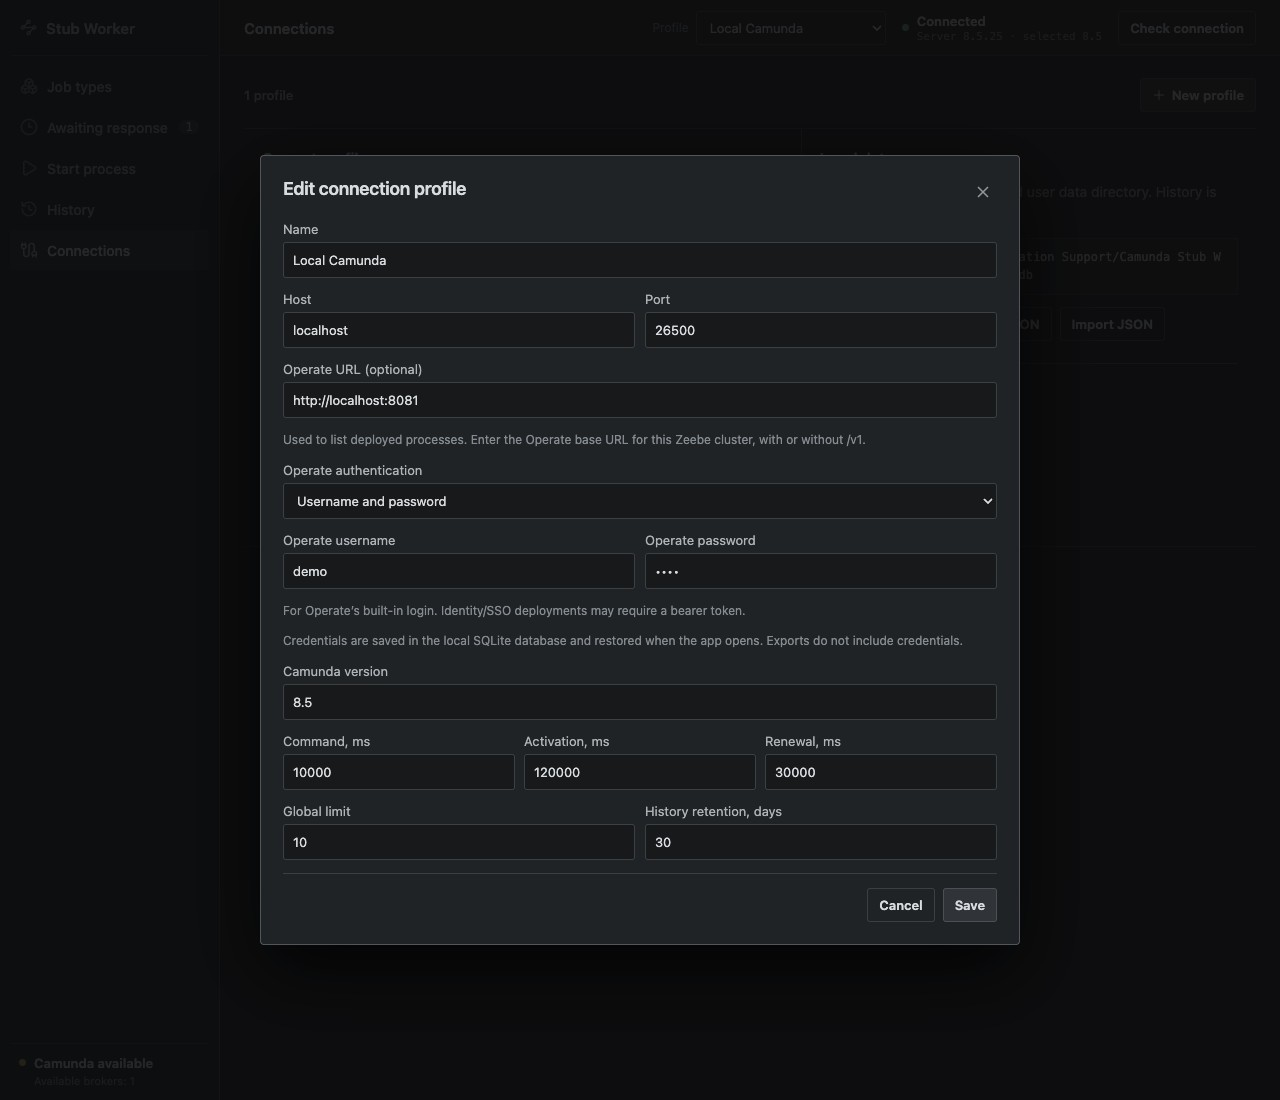
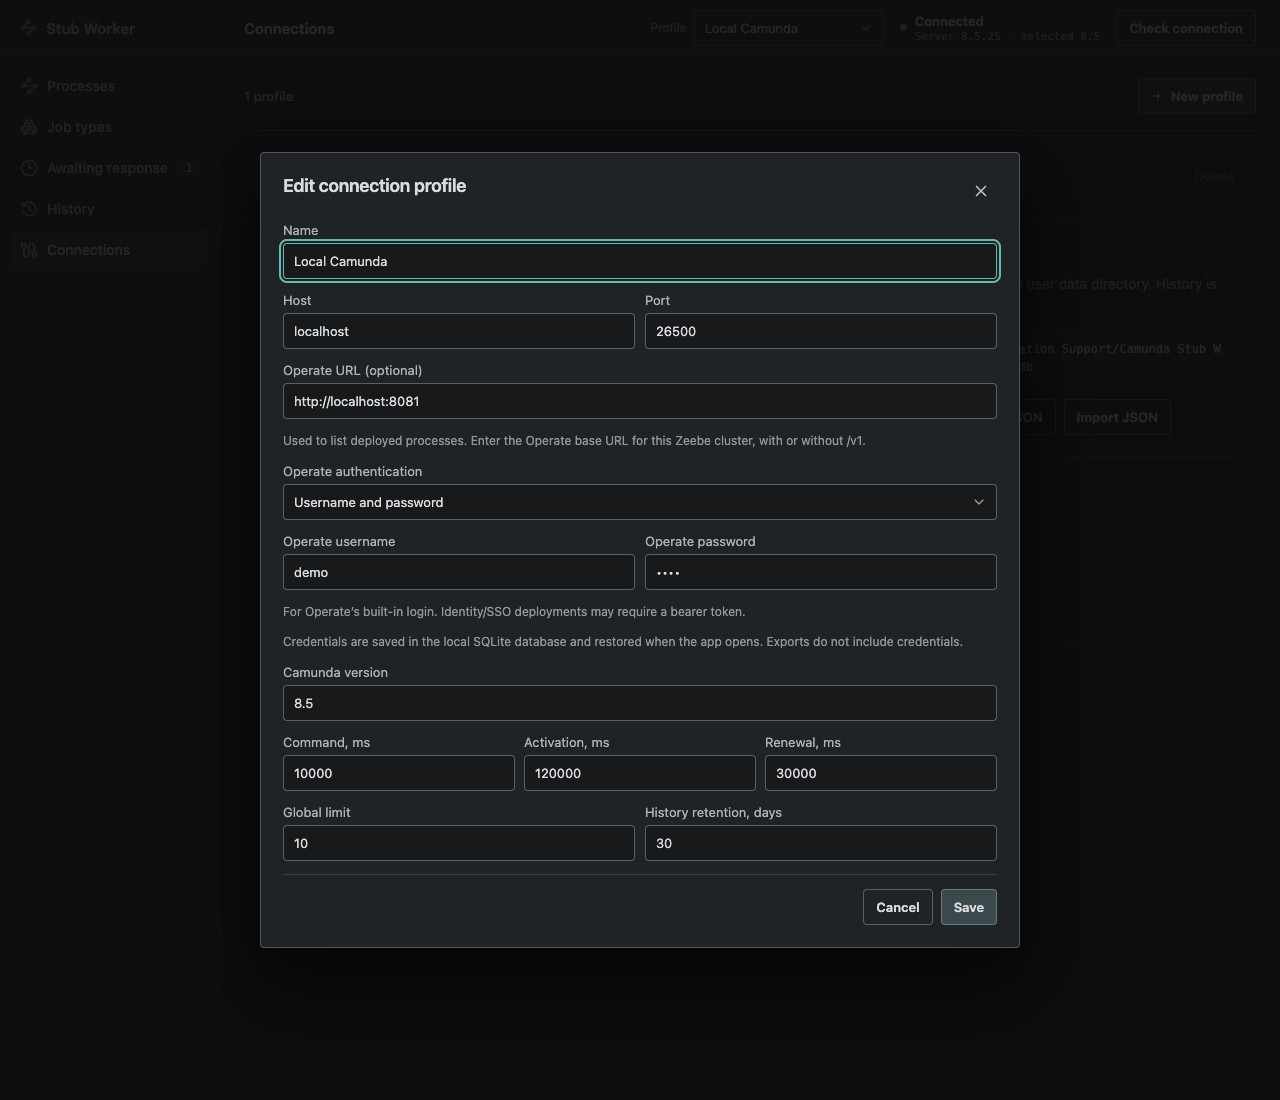
Refresh documentation and screenshots for v0.6.0

diff --git a/site/index.html b/site/index.html
@@ -24,20 +24,20 @@
         </div>
         <p class="platforms">macOS · Windows · Linux</p>
       </section>
-      <img class="screenshot" src="assets/job-types.jpg" width="1280" height="820" alt="Job types with automatic and manual workers and success, business-error, and technical-failure scenarios">
+      <img class="screenshot" src="assets/processes.jpg" width="1280" height="900" alt="Processes screen with shared responses for payment and inventory worker tasks">
       <div class="features">
         <p><strong>Choose the outcome.</strong> Return success, throw a business error, or simulate a technical failure.</p>
         <p><strong>Control the response.</strong> Run automatically or inspect and respond to jobs manually.</p>
-        <p><strong>Start from the app.</strong> Pick a deployed process from Operate or enter its ID, then supply a version and JSON variables.</p>
+        <p><strong>Start from the app.</strong> Pick a deployed process and version from Operate, configure its worker responses, then supply JSON variables.</p>
       </div>
       <section class="feature-section" aria-labelledby="start-title">
         <h2 id="start-title">From deployment to process instance.</h2>
-        <p>Browse deployed processes through the Operate API, refresh after deploying a new model, or enter a BPMN process ID manually. Choose a specific version or use the latest, add JSON variables, and get the new instance key.</p>
-        <figure><img class="screenshot" src="assets/start-process.jpg" width="1280" height="820" loading="lazy" alt="Start process screen showing Order fulfillment, input variables, and the created instance key"><figcaption>Start a process and see the instance confirmed by Camunda.</figcaption></figure>
+        <p>Browse deployed processes through the Operate API and refresh after deploying a new model. Choose a version, configure shared responses on its worker tasks, then open Start process to add JSON variables and get the new instance key. In-app process start requires Operate; without it, configure Job types and start instances with an external tool.</p>
+        <figure><img class="screenshot" src="assets/start-process.jpg" width="1280" height="820" loading="lazy" alt="Start process dialog showing Order fulfillment, input variables, and the created instance key"><figcaption>Start a process and see the instance confirmed by Camunda.</figcaption></figure>
       </section>
       <section class="feature-section" aria-labelledby="manual-title">
         <h2 id="manual-title">Inspect a job before you respond.</h2>
-        <p>Review input variables, choose a response scenario, and edit the JSON before sending it. Switch to automatic mode for repeatable test runs, then review response attempts in History.</p>
+        <p>Review input variables and choose a saved response, or select Custom to edit response JSON before sending it. Switch to automatic mode for repeatable test runs, then review response attempts in History.</p>
         <figure><img class="screenshot" src="assets/manual-response.jpg" width="1280" height="820" loading="lazy" alt="Awaiting response screen with order variables and an editable inventory response"><figcaption>Manual responses let you control the next step in your process.</figcaption></figure>
       </section>
       <section class="feature-section" aria-labelledby="connections-title">
@@ -46,8 +46,8 @@
         <figure><img class="screenshot" src="assets/connections.jpg" width="1280" height="1100" loading="lazy" alt="Connection editor with local Zeebe and Operate addresses and masked password authentication"><figcaption>Local defaults: Zeebe on port 26500, Operate on port 8081, and demo / demo for Operate login.</figcaption></figure>
         <p class="note">Configuration and history stay on your computer. Saved passwords and tokens are stored in plaintext in the local SQLite database and omitted from profile exports.</p>
       </section>
-      <p class="note">Screenshots show the current app UI with illustrative sample data.</p>
-      <p class="compatibility">For local Zeebe connections; verified with 8.5.25. Operate v1 is optional and must connect to the same cluster. Deploy BPMN models with an external tool. Builds are unsigned. See <a href="https://github.com/mishankov/camunda-stub-worker#install">installation and requirements</a>.</p>
+      <p class="note">Screenshots show the current frontend with isolated sample data and simulated backend responses.</p>
+      <p class="compatibility">For local Zeebe connections; verified with 8.5.25. Operate v1 is required for the Processes screen and must connect to the same cluster; standalone workers do not require it. Deploy BPMN models with an external tool. Builds are unsigned. See <a href="https://github.com/mishankov/camunda-stub-worker#install">installation and requirements</a>.</p>
     </main>
     <footer class="wrap">Camunda Stub Worker</footer>
   </body>

diff --git a/README.md b/README.md
@@ -1,17 +1,17 @@
 # Camunda Stub Worker
 
-Camunda Stub Worker is a desktop app for testing Camunda 8 processes without building every external worker first. Connect to local Zeebe, start a deployed process, and choose how its jobs should respond. Connect Operate to pick deployed processes from a dropdown.
+Camunda Stub Worker is a desktop app for testing Camunda 8 processes without building every external worker first. Connect to local Zeebe, start a deployed process, and choose how its jobs should respond. Connect Operate to select deployed processes, configure their worker tasks, and start instances.
 
 Use it to explore happy paths, business errors, and technical failures while developing or demonstrating a process. No code is required to create or switch responses.
 
 [Download the latest release](https://github.com/mishankov/camunda-stub-worker/releases/latest)
 
-![Job types and their configured response scenarios](docs/images/job-types.jpg)
+![Process worker tasks and their shared response scenarios](docs/images/processes.jpg)
 
 ## What you can do
 
-- **Start deployed processes** with a BPMN process ID, optional version, and JSON variables.
-- **Browse deployed processes** through the Operate API, with refresh and manual ID entry.
+- **Start deployed processes** with a version and JSON variables.
+- **Browse deployed processes** through the Operate API, with refresh and version selection.
 - **Stub multiple job types** from one desktop app.
 - **Create reusable responses** for success, BPMN business errors, and technical failures.
 - **Run automatically** with a selected response and optional delay.
@@ -36,13 +36,15 @@ Responses and worker settings are shared by job type within a connection. Editin
 
 The task list comes from the selected BPMN definition in Operate, including tasks in embedded subprocesses. Called processes are configured separately. Expression-based job types are shown but must be configured by their resolved value in **Job types**. Pending jobs are manual jobs activated by this app, filtered to the selected process definition version.
 
+![Job types and their configured response scenarios](docs/images/job-types.jpg)
+
 ### Automatic mode
 
 Automatic mode sends the active scenario as soon as a job is activated, after any delay configured on the scenario. It is useful for repeatable end-to-end flows, demos, and tests where the same response should be returned every time.
 
 ### Manual mode
 
-Manual mode places activated jobs under **Awaiting response**. You can inspect the input, select a scenario, edit its local copy, and send the response when ready. The scenario's automatic delay is not applied in manual mode.
+Manual mode places activated jobs under **Awaiting response**. You can inspect the input, select a saved scenario, and send the response when ready. Select **Custom** to edit response JSON for this job; JSON from a selected saved scenario is read-only. The scenario's automatic delay is not applied in manual mode.
 
 ![Reviewing and preparing a response for a manually activated job](docs/images/manual-response.jpg)
 
@@ -83,18 +85,18 @@ xattr -dr com.apple.quarantine "/Applications/Camunda Stub Worker.app"
 
 2. Open Camunda Stub Worker. On first launch it creates a **Local Camunda** profile for `localhost:26500` and Camunda `8.5`.
 3. Select **Check connection**.
-4. Add a job type that exactly matches the BPMN `zeebe:taskDefinition type`. Job types are case-sensitive.
+4. Open **Job types** and add a job type that exactly matches the BPMN `zeebe:taskDefinition type`. Job types are case-sensitive.
 5. Add at least one response scenario.
 6. For an automatic worker, select its active scenario.
-7. Deploy your BPMN model with Camunda Modeler or `zbctl`, start the job type, then open **Processes**. Enter its BPMN process ID and JSON variables, leave version blank for the latest deployment, and select **Start process**.
+7. Deploy your BPMN model with Camunda Modeler or `zbctl`, then start the worker. To start an instance from the app, configure Operate as described below, open **Processes**, select the process and version, and select **Start process…** to enter JSON variables. Without Operate, start the instance with an external tool; the configured workers still handle its jobs.
 
 ### Start a process
 
-Open **Processes**, first in the sidebar. Choose a deployed process from Operate and a version (latest by default). Review its tasks and shared responses, then select **Start process…** to open the start dialog. Review the process and version, add your input variables as a JSON object, and select **Start process**. The result appears in the dialog. The app starts the displayed version. With **Enter ID manually**, you can leave Version blank to start the latest deployed version or enter a specific version; task discovery requires selecting a deployed process.
+Open **Processes**, first in the sidebar. Choose a deployed process from Operate and a version (latest by default). Review its tasks and shared responses, then select **Start process…** to open the start dialog. Review the process and version, add your input variables as a JSON object, and select **Start process**. The result appears in the dialog. The app starts the displayed version. The process list, task discovery, and in-app process start require Operate; manual process ID entry is not available.
 
 ![Start process with a deployed process selected, JSON variables, and returned instance keys](docs/images/start-process.jpg)
 
-Screenshots show the current app UI with illustrative sample data.
+Screenshots show the current frontend with isolated sample data and simulated backend responses.
 
 The app shows the confirmed process instance key and definition key. It returns once the instance is created, without waiting for the process to finish. On an uncertain result (such as a timeout), check Camunda before trying again: an instance may already exist. Process starts are not retried automatically or saved in response History; History records jobs handled by the workers. BPMN deployment still requires an external tool.
 
@@ -110,11 +112,11 @@ New local connections default to `http://localhost:8081` with username `demo` an
 
 To remove a saved connection, open **Connections** and select **Delete** beside its profile, then confirm. Select another profile in the top **Profile** menu first, and stop workers and finish active jobs. At least one profile must remain. Deletion also removes the profile’s saved credentials, job types, and response scenarios. Activation history remains in the local database but is no longer accessible through the deleted profile.
 
-The picker lists default-tenant processes with a separate version selector for each BPMN process ID. Recently deployed models may take a moment to appear in Operate. If Operate is unavailable, manual ID entry still works. The bundled Docker environment contains only Zeebe; Operate is optional and must be provided separately.
+The picker lists default-tenant processes with a separate version selector for each BPMN process ID. Recently deployed models may take a moment to appear in Operate. Without Operate, use **Job types** to configure workers and an external tool to start instances. The bundled Docker environment contains only Zeebe; Operate is optional and must be provided separately.
 
 ## Compatibility and scope
 
-The verified server target is **Zeebe 8.5.25**. Selecting **Other 8.x** uses the 8.5 API mode and does not imply verified compatibility.
+The verified server target is **Zeebe 8.5.25**. Entering another 8.x version in **Camunda version** uses the 8.5 API mode and does not imply verified compatibility.
 
 The Zeebe connection uses plaintext gRPC with an explicit `host:port`; Zeebe OAuth, TLS, Camunda SaaS, and multitenancy are not supported. The optional Operate connection uses the v1 REST API over HTTP or HTTPS with built-in login, bearer-token authentication, or no authentication. Conditional scenarios, scripts, BPMN deployment, and unattended update installation are outside the app's scope.
 
@@ -166,7 +168,7 @@ Dependencies are pinned in `go.mod` and `frontend/package-lock.json`:
 - Wails **2.15.0**
 - Svelte **5.57.0**, Vite **8.3.0**, and TypeScript **5.9.2**
 - Camunda Go client / Zeebe protocol **8.5.25**
-- `modernc.org/sqlite` **1.39.1** (pure Go; no system SQLite dependency)
+- `modernc.org/sqlite` **1.58.0** (pure Go; no system SQLite dependency)
 
 The UI uses CodeMirror for JSON editing, syntax highlighting, and validation. Update checks run in the background against published GitHub Releases and display an in-app download notification when a newer version is available.
 
@@ -217,7 +219,7 @@ The sample models in `integration/bpmn/` cover each response type:
 - `business-error.bpmn` — job type `stub-business-error`, boundary error code `BUSINESS_ERROR`
 - `technical-failure.bpmn` — job type `stub-technical-failure` with three initial retries
 
-Deploy the models with Camunda Modeler, `zbctl`, or another external tool. Start instances from **Start process** using `stub_success_process`, `stub_business_error_process`, or `stub_technical_failure_process`.
+Deploy the models with Camunda Modeler, `zbctl`, or another external tool. Start instances with an external tool, or connect Operate and select `stub_success_process`, `stub_business_error_process`, or `stub_technical_failure_process` in **Processes** before selecting **Start process…**.
 
 ## Verification
 
